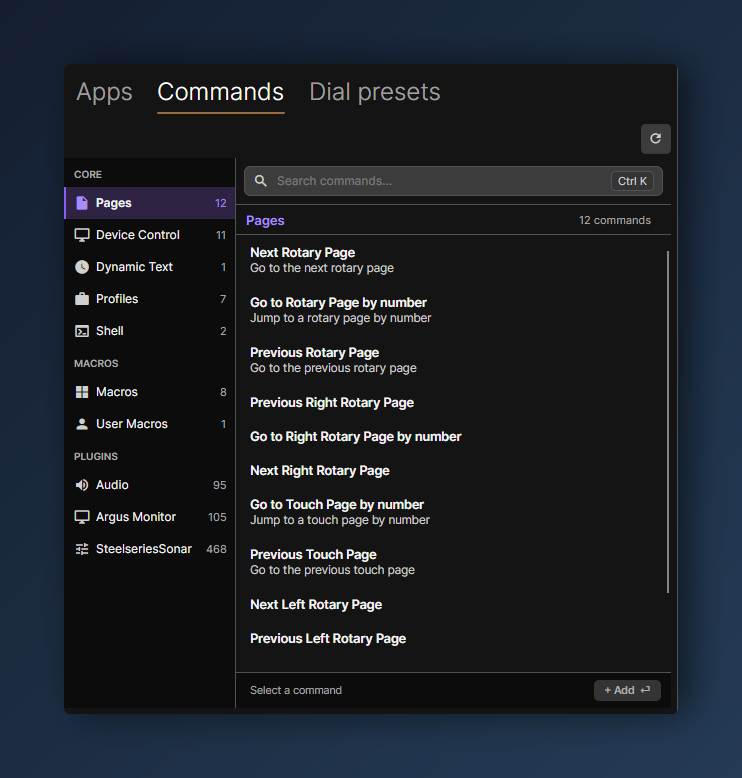
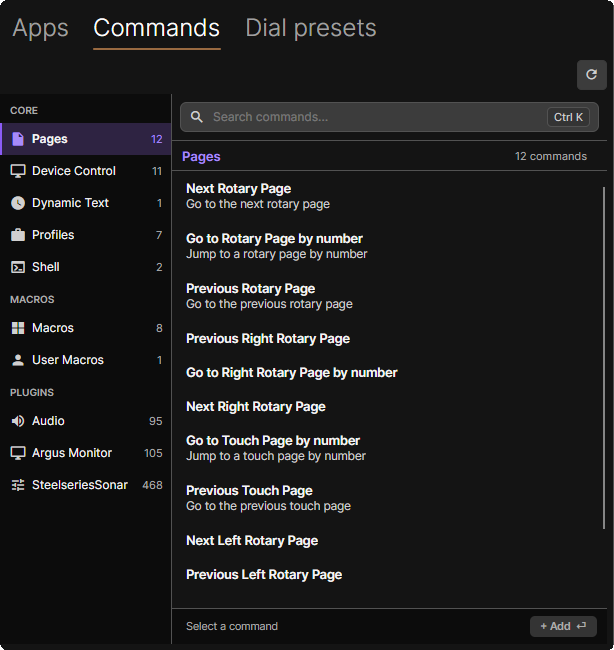
feat(site): crop the blue backdrop off the screenshots

diff --git a/site/style.css b/site/style.css
@@ -123,7 +123,7 @@ h1, h2, h3, p, figure { margin: 0; }
 .ok { color: #5fcf85; }
 .warn { color: #e2c37a; }
 .hero figure { flex: 1 1 520px; min-width: 0; }
-.hero img { width: 100%; border-radius: 8px; border: 1px solid var(--brand-bd); box-shadow: 0 2px 8px 0 #00000077; }
+.hero img { width: 100%; border-radius: 4px; box-shadow: 0 2px 8px 0 #00000077; }
 
 /* Works-with strip */
 .works { background: var(--low); border-bottom: 1px solid var(--bf); }
@@ -146,7 +146,7 @@ h1, h2, h3, p, figure { margin: 0; }
 .tour-text h3 { font-size: 28px; line-height: 34px; font-weight: 700; letter-spacing: -0.015em; }
 .tour-text > p { color: var(--t2); }
 .tour figure { flex: 1.4 1 480px; min-width: 0; }
-.tour figure img { width: 100%; border-radius: 8px; border: 1px solid var(--bd); }
+.tour figure img { width: 100%; border-radius: 4px; }
 .tour figure.narrow { flex: 1 1 360px; display: flex; justify-content: center; }
 .tour figure.narrow img { max-width: 460px; }
 .checks { margin: 0; padding: 0; list-style: none; display: flex; flex-direction: column; gap: 8px; font-size: 15px; line-height: 22px; color: var(--t2); }

diff --git a/site/index.html b/site/index.html
@@ -59,7 +59,7 @@
       </div>
     </div>
     <figure>
-      <img src="assets/img/main.png" width="965" height="771" alt="LoupixDeck main window showing a Razer Stream Controller with a colourful touch page">
+      <img src="assets/img/main.png" width="837" height="643" alt="LoupixDeck main window showing a Razer Stream Controller with a colourful touch page">
     </figure>
   </div>
 </section>
